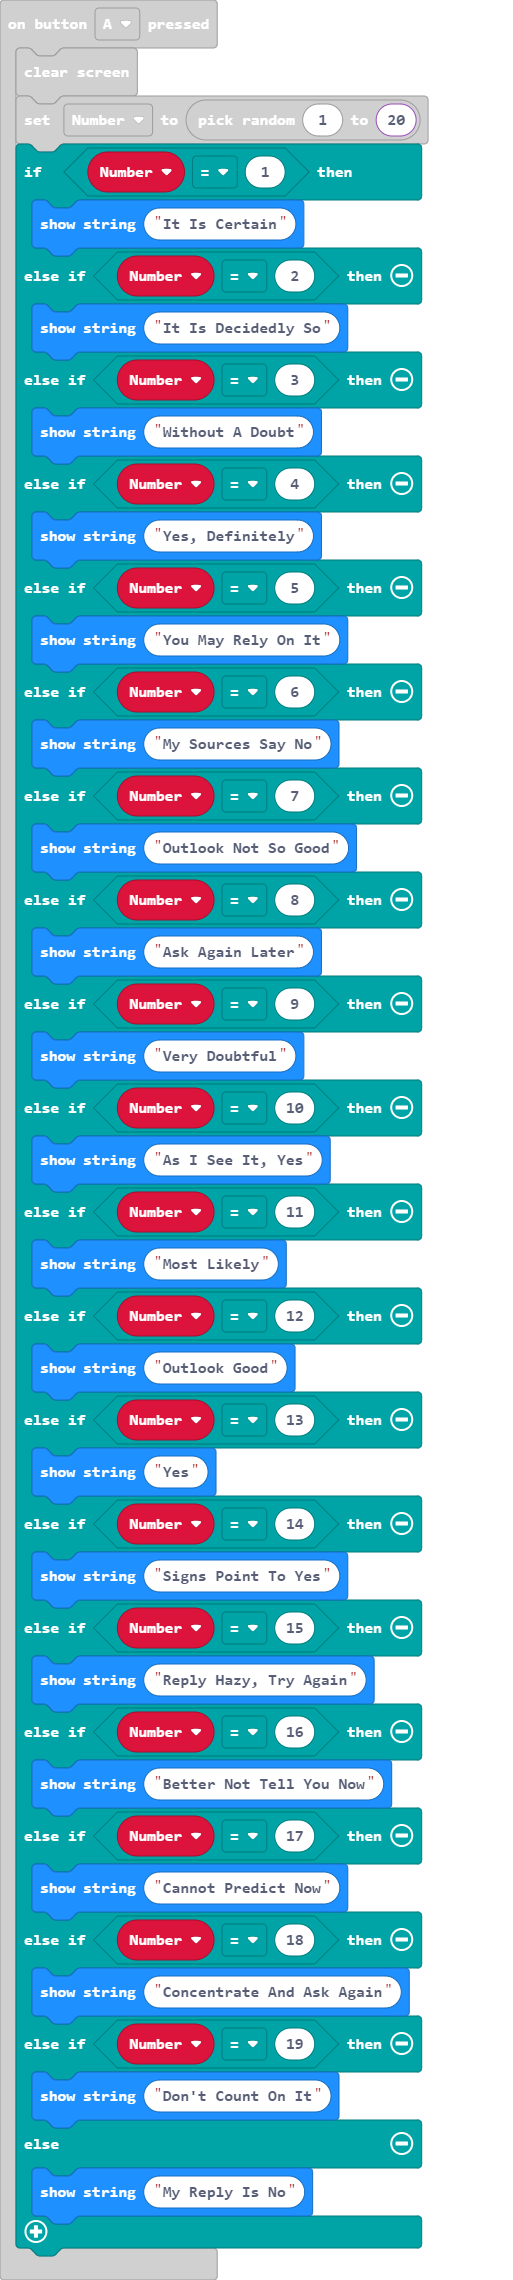
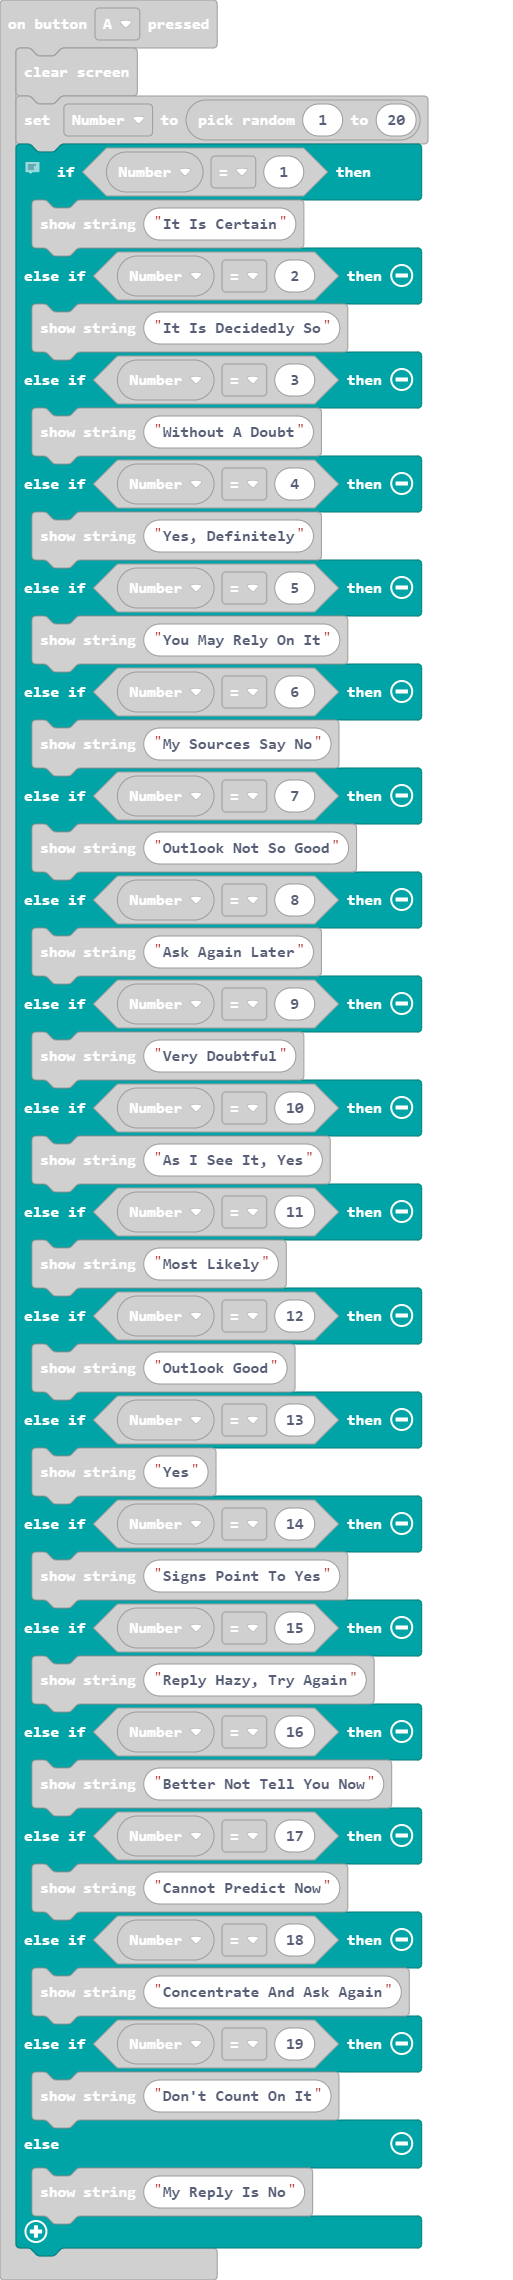
Update main.blocks, main.ts

diff --git a/main.ts b/main.ts
@@ -2,6 +2,7 @@ let Number2 = 0
 input.onButtonPressed(Button.A, function () {
     basic.clearScreen()
     Number2 = randint(1, 20)
+    // This is a digital copy of the toy that tells your fortune.
     if (Number2 == 1) {
         basic.showString("It Is Certain")
     } else if (Number2 == 2) {
